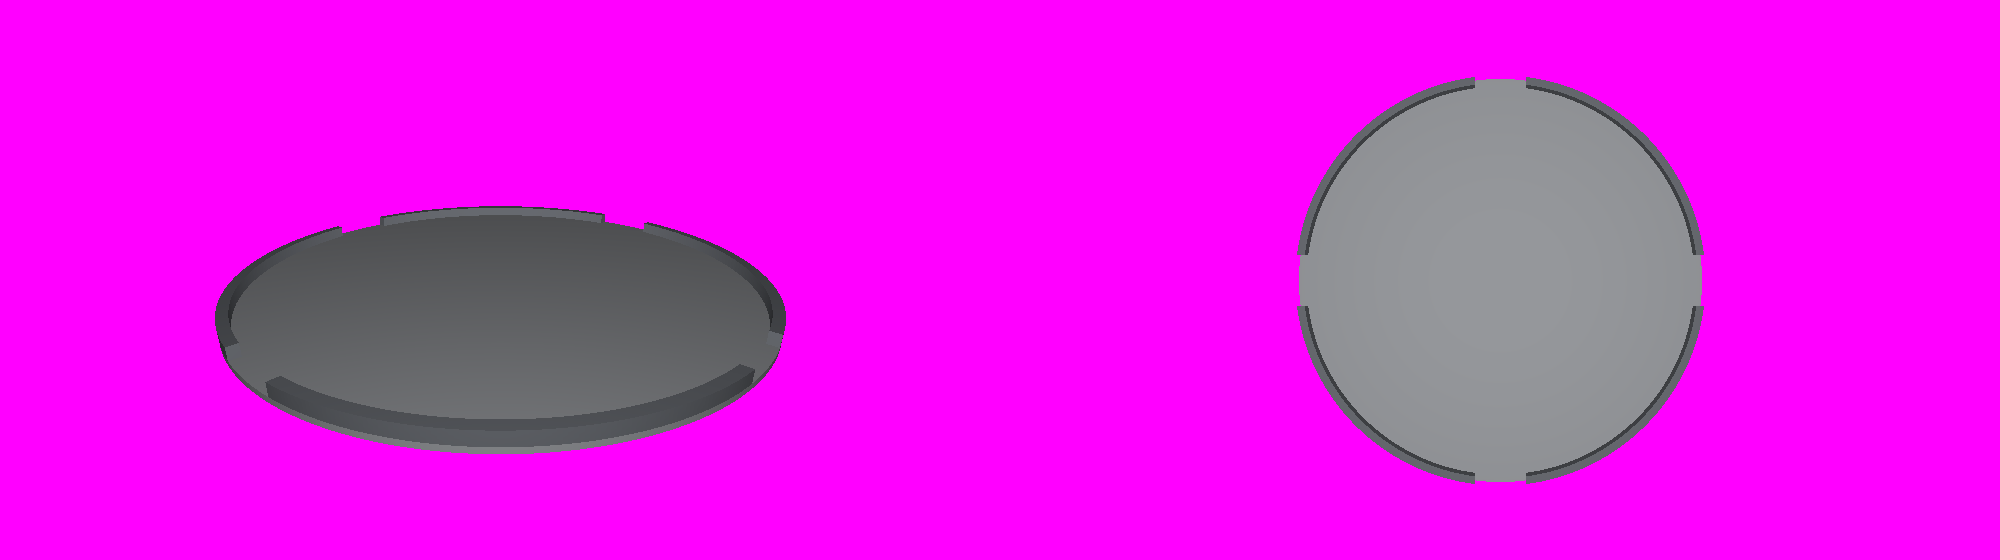
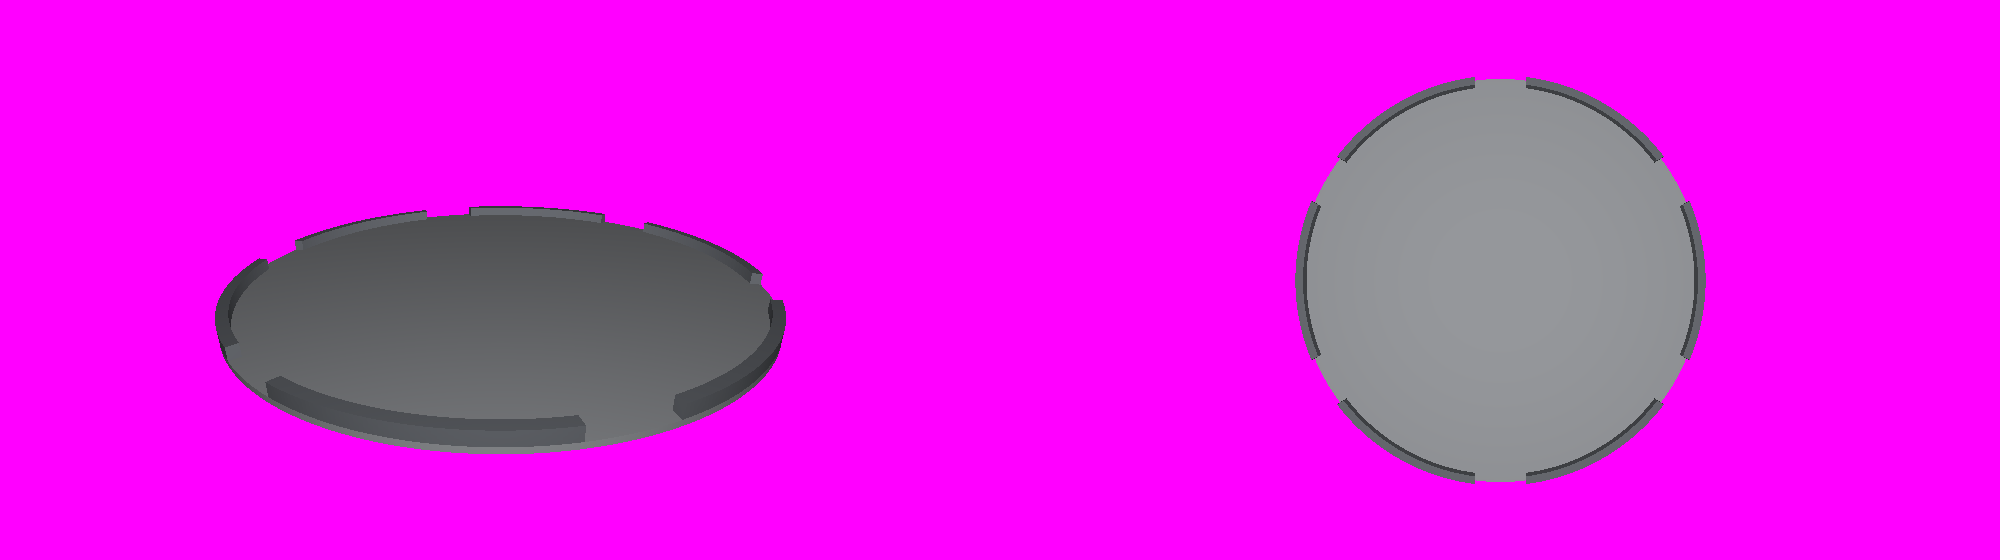
Plateforme de spawn : 6 ouvertures
Claude-Session: https://claude.ai/code/session_01PMKoCjSrSzXqgN9hvh9Gpz

diff --git a/Modeles/Cabine/generate_plateforme_spawn.py b/Modeles/Cabine/generate_plateforme_spawn.py
@@ -1,4 +1,4 @@
-"""PLATEFORME DU SPAWN (centre du lobby) : juste un disque gris avec un rebord et 4 ouvertures (N, E, S, O).
+"""PLATEFORME DU SPAWN (centre du lobby) : juste un disque gris avec un rebord et 6 ouvertures (tous les 60 degres).
 Origine : centre de la plateforme, au sol. Y en haut.
 Sortie : Modeles/Lobby/Plateforme_Spawn.glb      Usage : python3 generate_plateforme_spawn.py
 """
@@ -39,7 +39,7 @@ def objet(m, mat):
 sol = extrusion(Point(0, 0).buffer(R, 128), 0.0, H)
 anneau = Point(0, 0).buffer(R, 128).difference(Point(0, 0).buffer(R - MUR_EP, 128))
 coupe = Polygon([(-TROU / 2, R - 3), (TROU / 2, R - 3), (TROU / 2, R + 1), (-TROU / 2, R + 1)])
-for a in (0, 90, 180, 270):
+for a in (0, 60, 120, 180, 240, 300):
     anneau = anneau.difference(rotate(coupe, a, origin=(0, 0)))
 murs = [extrusion(p, H, H + MUR_H) for p in anneau.geoms]
 
